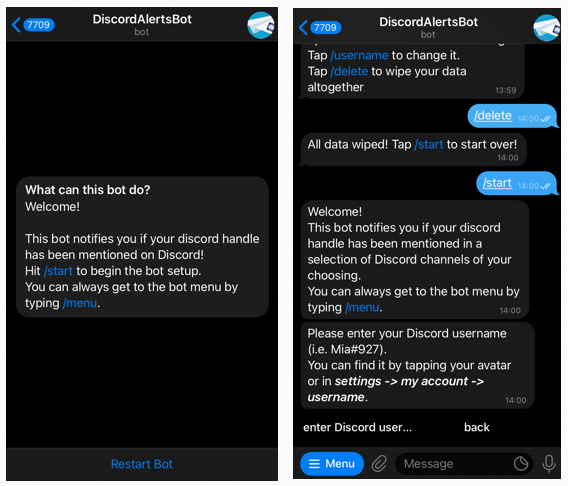
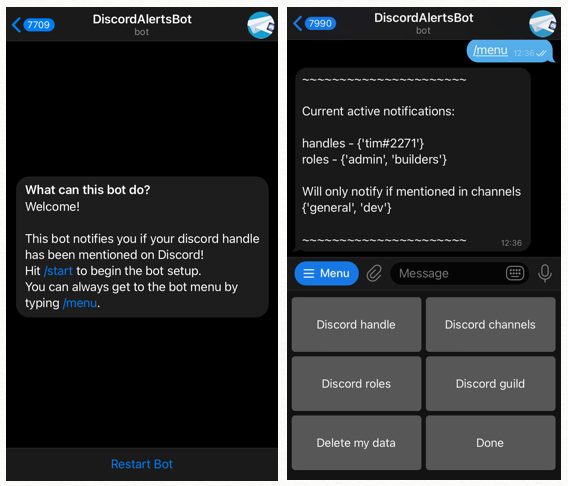
Code cleanup, updated bot preview, added bot command to show source code

Changed region(s): [[0.4789, 0.0, 0.9877, 0.9877]]

diff --git a/discord_bot.py b/discord_bot.py
@@ -1,9 +1,8 @@
 #!/usr/bin/env python
 # -*- coding: utf-8 -*-
 """
-This file contains the discord bot to be called from within telegram_bot.py.
-DiscordBot instantiates a second telegram bot for sending out the notifications
-to Telegram whenever they are triggered by a Discord message.
+In this file the DiscordBot class is defined. DiscordBot instantiates a
+telegram bot of its own to forward the Discord messages to Telegram.
 """
 
 import os, discord, logging
@@ -20,13 +19,12 @@ class DiscordBot:
     """
 
     def __init__(self):
-        """
-        Constructor of the class. Initializes some instance variables.
-        """
+        """Constructor of the class. Initializes some instance variables."""
+
         # Instantiate Telegram bot to send out messages to users
         TELEGRAM_TOKEN = os.getenv("TELEGRAM_BOT_TOKEN")
         self.telegram_bot = Bot(TELEGRAM_TOKEN)
-        # Set of Discord usernames & roles that trigger Telegram notifications (always up-to-date)
+        # Set of Discord usernames & roles that trigger Telegram notifications
         self.listening_to = {"handles": set(), "roles": set()}
         # Reverse lookup {"handles": {discord username: {telegram id, telegram id}}
         self.discord_telegram_map = {"handles": {}, "roles": {}}
@@ -41,7 +39,8 @@ class DiscordBot:
 
 
     async def refresh_data(self) -> None:
-        """Populates/updates users, listening_to, discord_telegram_map."""
+        """Updates from pickle: users, listening_to, discord_telegram_map, channel_whitelist."""
+
         # Reload database from file. Skip all if no file created yet.
         try:
             self.users = read_pickle(self.data_path)["user_data"]
@@ -82,22 +81,23 @@ class DiscordBot:
             if "discord channels" in v:
                 self.channel_whitelist[k] = v["discord channels"]
 
-        log(f"discord_bot:\nData updated from Pickle file:\n{self.users}")
-        log(f"listening_to:\n{self.listening_to}")
-        log(f"discord_telegram_map:\n{self.discord_telegram_map}")
-        log(f"channel_whitelist:\n{self.channel_whitelist}")
+        log(
+            f"\nDATA READ FROM PICKLE FILE:\n{self.users}\n\n"
+            f"\nlistening_to:\t\t{self.listening_to}"
+            f"\ndiscord_telegram_map:\t{self.discord_telegram_map}"
+            f"\nchannel_whitelist:\t{self.channel_whitelist}\n"
+        )
 
-
-    async def send_to_TG(self, telegram_user_id, msg) -> None:
+    async def send_to_TG(self, telegram_user_id, msg, parse_mode='Markdown') -> None:
         """
         Sends a message a specific Telegram user id.
-        Uses Markdown V1 for inline link capability.
+        Defaults to Markdown V1 for inline link capability.
         """
         await self.telegram_bot.send_message(
             chat_id=telegram_user_id,
             text=msg,
             disable_web_page_preview=True,
-            parse_mode="Markdown"
+            parse_mode=parse_mode
             )
 
 
@@ -160,10 +160,7 @@ class DiscordBot:
 
 
     def get_listening_to(self, TG_id) -> dict:
-        """
-        Takes a TG username, returns whatever this user gets notifications for
-        currently.
-        """
+        """Takes a TG username, returns whatever this user gets notifications for currently."""
         _map = self.discord_telegram_map
         handles_active = {k for k, v in _map["handles"].items() if TG_id in v}
         roles_active = {k for k, v in _map["roles"].items() if TG_id in v}
@@ -185,12 +182,12 @@ class DiscordBot:
             for trigger, id_set in trigger_dict.items():
                 if TG_id in id_set:
                     d[category].add(trigger)
-                               
         return d
 
 
     async def run_bot(self) -> None:
         """Actual logic of the bot is stored here."""
+
         # Update data to listen to at startup
         await self.refresh_data()
 
@@ -209,7 +206,7 @@ class DiscordBot:
             msg = "Discord bot is up & running!\nHit /menu to begin."
             await self.send_to_all(msg)
 
-        # Actions taken on every new Discord message
+        # Actions taken for every new Discord message
         @client.event
         async def on_message(message):
 
@@ -241,10 +238,8 @@ class DiscordBot:
 
                         # Forward to user if no channels are specified or channel is in whitelist
                         for _id in TG_ids:
-
                             if whitelist[_id] == set():
                                 await self.send_to_TG(_id, out_msg)
-
                             else:
                                 if channel in whitelist[_id]:
                                     await self.send_to_TG(_id, out_msg)
@@ -273,21 +268,18 @@ class DiscordBot:
 
                         # Forward to user if no channels are specified or channel is in whitelist
                         for _id in TG_ids:
-
                             if whitelist[_id] == set():
                                 await self.send_to_TG(_id, out_msg)
-
                             else:
                                 if channel in whitelist[_id]:
                                     await self.send_to_TG(_id, out_msg)
 
                 # DONE: Have bot also check for mentioned roles
                 # DONE: Improved & less logging
-                # TODO: Have bot listen to specified subset of channels only
+                # DONE: Have bot listen to specified subset of channels only
                 # TODO: Check behavior with multiple bot instances open at once
                 # TODO: Check behavior with bot on multiple servers simultaneously
 
 
         DISCORD_TOKEN = os.getenv("DISCORD_TOKEN")
-        #client.run(DISCORD_TOKEN)
         await client.start(DISCORD_TOKEN)

diff --git a/telegram_bot.py b/telegram_bot.py
@@ -26,9 +26,7 @@ load_dotenv("./.env")
 
 
 class TelegramBot:
-    """
-    A class to encapsulate all relevant methods of the Telegram bot.
-    """
+    """A class to encapsulate all relevant methods of the Telegram bot."""
 
     def __init__(self, discord_bot_instance):
         """
@@ -36,7 +34,7 @@ class TelegramBot:
         """
         # The single data file the bot is using
         self.data_path = "./data"
-        # Discord bot instance (set from outside this scope)
+        # Discord bot instance
         self.discord_bot = discord_bot_instance
 
         # Set up conversation states & inline keyboard
@@ -47,7 +45,6 @@ class TelegramBot:
             ["Delete my data", "Done"]
         ]
         self.markup = ReplyKeyboardMarkup(reply_keyboard, one_time_keyboard=True)
-        # Application be initiated later for access from within every function
         self.application = None
 
 
@@ -81,7 +78,6 @@ class TelegramBot:
         if custom_msg:
             reply = "🚧 "*8+"\n\n" + custom_msg + "\n\n"+"🚧 "*8
             reply += "\n\nBack to /menu or /done."
-
         else:
             reply = (
                 "🚧 "*8+"\n\n\t...under construction...\n\n"+"🚧 "*8+ \
@@ -109,7 +105,7 @@ class TelegramBot:
 
         # Add missing user_data keys if not existing yet
         if user_data and not all(x in user_data for x in check_keys):
-            # Add "guild", "roles", "channels" keys to user data
+            # Add missing keys to user data
             await self.add_placeholders(update, context)
 
         # Possibility: Known user -> show active notifications & button menu
@@ -128,7 +124,6 @@ class TelegramBot:
                 )
                 # Send out message & end it here
                 await update.message.reply_text(reply_text, reply_markup=self.markup)
-
                 return self.CHOOSING
 
             # Possibility: At least one active notification trigger
@@ -167,7 +162,6 @@ class TelegramBot:
 
         # Send out message
         await update.message.reply_text(reply_text, reply_markup=self.markup)
-
         return self.CHOOSING
 
 
@@ -187,7 +181,6 @@ class TelegramBot:
             f"my account -> username."
         )
         await update.message.reply_text(reply_text)
-
         return self.TYPING_REPLY
 
 
@@ -215,7 +208,6 @@ class TelegramBot:
             " to receive notifications for:"
         )
         await update.message.reply_text(reply_text)
-
         return self.TYPING_REPLY
 
 
@@ -258,16 +250,6 @@ class TelegramBot:
         )
 
         await update.message.reply_text(reply_text)
-
-        return self.TYPING_REPLY
-
-
-
-
-        reply_text = self.under_construction_msg()
-        await update.message.reply_text(reply_text)
-
-        del context.user_data["choice"]
         return self.TYPING_REPLY
 
 
@@ -299,7 +281,6 @@ class TelegramBot:
             disable_web_page_preview=True,
             parse_mode="Markdown")
 
-        #del context.user_data["choice"]
         return self.TYPING_REPLY
 
 
@@ -324,11 +305,10 @@ class TelegramBot:
 
             # Refresh Discord bot to propagate changes
             await self.refresh_discord_bot()
-            await asyncio.sleep(4)
+            await asyncio.sleep(2.5)
 
         # Notify user
         await update.message.reply_text(reply_text)
-
         return ConversationHandler.END
 
 
@@ -428,15 +408,17 @@ class TelegramBot:
             " If the changes don't show up under 'Current active notifications'"
             " yet, please allow the bot about 30s, then hit /menu again."
         )
-        await update.message.reply_text(success_msg, reply_markup=self.markup)
 
+        await update.message.reply_text(success_msg, reply_markup=self.markup)
         return await self.start(update, context)
 
 
-    async def show_data(self, update, context) -> None:
-        """Display the gathered info."""
+    async def show_source(self, update, context) -> None:
+        """Display link to github."""
         await update.message.reply_text(
-            f"This is what you already told me: {self.parse_str(context.user_data)}"
+            "Collaboration welcome! -> [github](https://github.com/jediswaplabs/discord-alert-bot)"
+            "\nBack to /menu or /done.",
+            parse_mode="Markdown"
         )
 
 
@@ -468,10 +450,8 @@ class TelegramBot:
 
 
     async def run(self) -> None:
-        """
-        A custom start-up procedure to run the TG bot alongside another
-        process in the same event loop.
-        """
+        """Start-up procedure to run TG & Discord bots within the same event loop."""
+
         # Some config for the application
         config = PersistenceInput(
             bot_data=False,
@@ -529,7 +509,6 @@ class TelegramBot:
                     )
                 ],
             },
-            #fallbacks=[MessageHandler(filters.Regex("^(Done|/done)$"), self.done)],
             fallbacks=[
                 MessageHandler(
                     filters.Regex("^Done$"),
@@ -548,10 +527,10 @@ class TelegramBot:
             persistent=False
         )
 
-        # Add handlers to application
+        # Add additional handlers
         self.application.add_handler(conv_handler)
-        show_data_handler = CommandHandler("show_data", self.show_data)
-        self.application.add_handler(show_data_handler)
+        show_source_handler = CommandHandler("github", self.show_source)
+        self.application.add_handler(show_source_handler)
 
         # Run application and discord bot simultaneously & asynchronously
         async with self.application:

diff --git a/main.py b/main.py
@@ -1,10 +1,10 @@
 #!/usr/bin/env python
 # -*- coding: utf-8 -*-
 """
-This script is running a Telegram bot and a Discord bot asynchronously
-within the same event loop. In general, the Telegram bot is used as a
-frontend to write user data to the db, from which the Discord bot is only
-reading data to update notification triggers on Discord.
+This script is running a Telegram bot and a Discord bot asynchronously within
+the same event loop. In general, the Telegram bot is used as a frontend for
+user data entry. The Discord bot is only ever reading data, updating its
+notification triggers accordingly and listening to Discord events.
 Written by Al Matty - github.com/al-matty
 """
 
@@ -21,12 +21,11 @@ logging.basicConfig(
 )
 logger = logging.getLogger(__name__)
 
-# initialize bots & insert Discord bot instance into TG bot
+# Instantiate bots
 disc_bot = DiscordBot()
 tg_bot = TelegramBot(disc_bot)
 
-# Initialize Telegram bot. Discord bot gets initialized from event loop started
-# from within TG bot
+# Initialize Telegram bot. Discord bot gets initialized from within TG bot instance
 asyncio.run(tg_bot.run())
 
 

diff --git a/readme.md b/readme.md
@@ -3,9 +3,8 @@
 ![Preview](https://github.com/jediswaplabs/discord-alert-bot/blob/main/example.png)
 
 
-A Telegram bot that notifies you when your handle is mentioned in a specific Discord server
-
-To run, add the bot [Telegram Alerts](https://discord.com/oauth2/authorize?client_id=1031609181700104283&scope=bot&permissions=1024) to the **Discord** server you want to get notifications for. It only needs permissions read messages.
+A Telegram bot that notifies you when your handle is mentioned in a specific Discord server.
+To run, add the bot [Telegram Alerts](https://discord.com/oauth2/authorize?client_id=1031609181700104283&scope=bot&permissions=1024) to the **Discord** server you want to get notifications for. It only needs permissions to read messages. Feel free to use the [invite link](https://discord.com/oauth2/authorize?client_id=1031609181700104283&scope=bot&permissions=1024).
 
 On **Telegram**, look for _@DiscordAlertsBot_ and start a conversation with it.
 It will prompt for your Discord handle and the Discord server you want to use it in.
@@ -14,7 +13,7 @@ in for this server.
 
 ## Requirements & Installation
 
-The bot requires python >= 3.7 and uses the packages listed in `requirements.txt`.
+The bot requires python >= 3.7 (3.9 is recommended) and uses the packages listed in `requirements.txt`.
 The best practice would be to install a virtual environment and install the
 requirements afterwards using `pip`:
 
@@ -22,7 +21,7 @@ requirements afterwards using `pip`:
 pip install -r requirements.txt
 ```
 The bot relies on a pre-release of [python-telegram-bot](https://docs.python-telegram-bot.org/en/v20.0a6/),
-so if installing packages manually using `pip`, the `--pre` flag will be necessary ([see here](https://docs.python-telegram-bot.org/en/v20.0a6/)). If you're using [anaconda](https://www.anaconda.com), you can create a virtual environment and install all requirements using this code:
+so if you choose to install the dependencies manually using `pip`, the `--pre` flag will be necessary ([see here](https://docs.python-telegram-bot.org/en/v20.0a6/)). If you're using [anaconda](https://www.anaconda.com), you can create a virtual environment and install all requirements using this code:
 
 ```
 conda create -n discord-alert-bot python=3.9
